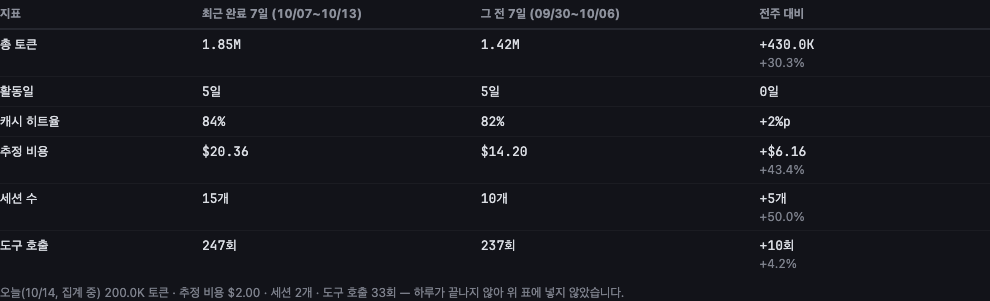
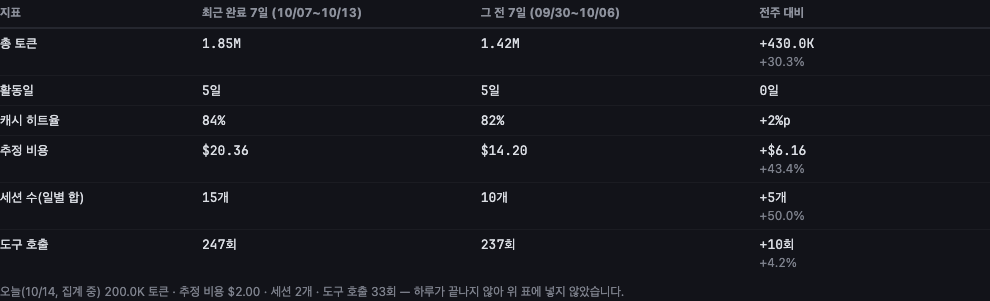
fix(usage): R13b 리뷰 반영 — 주간 세션 행을 "일별 합"으로 밝히고 30일 비용 카드에 미산정 과소 표기(≥)·"추정" 용어를 맞춘다
RV-001 세션 수(일별 합) 라벨, RV-002 상단 비용 카드 fmtCost·"추정", RV-004 일별 목록 박스 제목. 하네스 단언·캡처 갱신.

diff --git a/src/views/usage.ts b/src/views/usage.ts
@@ -424,18 +424,19 @@ function renderDailyUsageSection(): HTMLElement {
     }
   }
 
-  return el('div', { className: 'box' }, [boxHead('토큰 사용량 (최근 30일)'), el('div', { className: 'box-body' }, [body])]);
+  return el('div', { className: 'box' }, [boxHead('일별 사용량 (최근 30일)'), el('div', { className: 'box-body' }, [body])]);
 }
 
-// 최근 30일 예상 비용 타일 — usageApi.ts가 아니라 별도 로딩 사이클인
+// 최근 30일 추정 비용 타일 — usageApi.ts가 아니라 별도 로딩 사이클인
 // state.usageSummary에서 값을 가져오므로(30일 요약, jsonl 1회 스캔) 다른
-// 타일과 로딩/에러 상태가 독립적이다. 라벨의 "예상"이 비용이 실측이 아니라
-// 단가표 기반 추정임을 드러낸다(정직성 원칙).
+// 타일과 로딩/에러 상태가 독립적이다. 라벨의 "추정"이 비용이 실측이 아니라
+// 단가표 기반 추정임을 드러내고, 단가 미산정 토큰이 있으면 주간 표·차트·일별
+// 목록과 같은 fmtCost로 "≥"를 붙여 과소 표기임을 드러낸다(정직성 원칙).
 function costStat(): UsageStat {
   const s = state.usageSummary;
-  if (s.loading && !s.loaded) return { label: '최근 30일 예상 비용', value: '계산 중…' };
-  if (s.error || !s.report) return { label: '최근 30일 예상 비용', value: '—' };
-  return { label: '최근 30일 예상 비용', value: formatUsd(s.report.totalCostUsd) };
+  if (s.loading && !s.loaded) return { label: '최근 30일 추정 비용', value: '계산 중…' };
+  if (s.error || !s.report) return { label: '최근 30일 추정 비용', value: '—' };
+  return { label: '최근 30일 추정 비용', value: fmtCost(s.report.totalCostUsd, s.report.unpricedTokens) };
 }
 
 function renderUsageStatCards(): HTMLElement {
@@ -639,7 +640,7 @@ function renderWeeklySummary(trend: UsageTrend): HTMLElement {
       d ? trendDeltaCell(signed(d.costAbs, formatUsd), pctSub(d.costPct), ...(d.costPartial ? ['미산정 포함 — 증감은 참고용'] : [])) : trendDeltaCell('—'),
     ]),
     trendRow([
-      '세션 수',
+      '세션 수(일별 합)',
       `${fmtCount(cur.sessionCount)}개`,
       prev ? `${fmtCount(prev.sessionCount)}개` : '—',
       d ? trendDeltaCell(signed(d.sessionsAbs, (v) => `${fmtCount(v)}개`), pctSub(d.sessionsPct)) : trendDeltaCell('—'),
